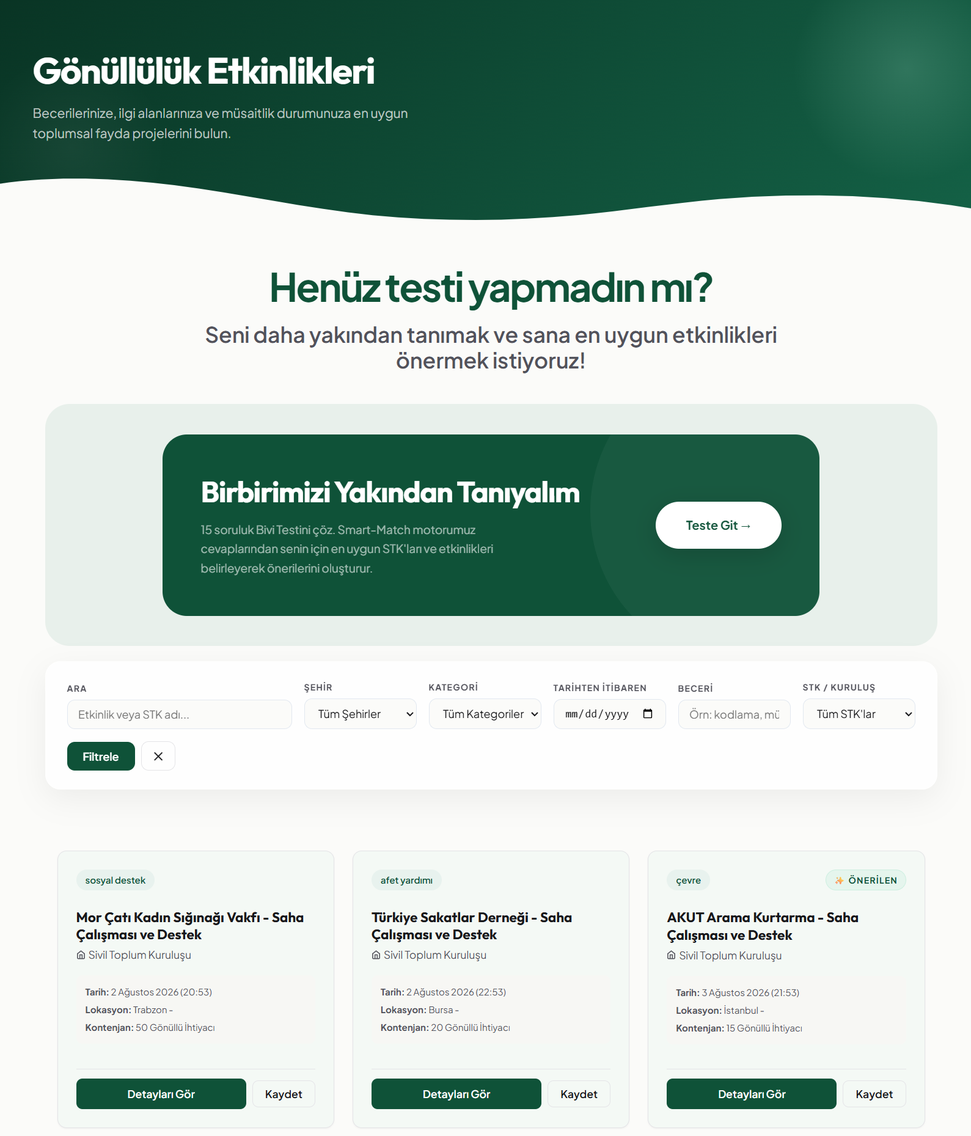
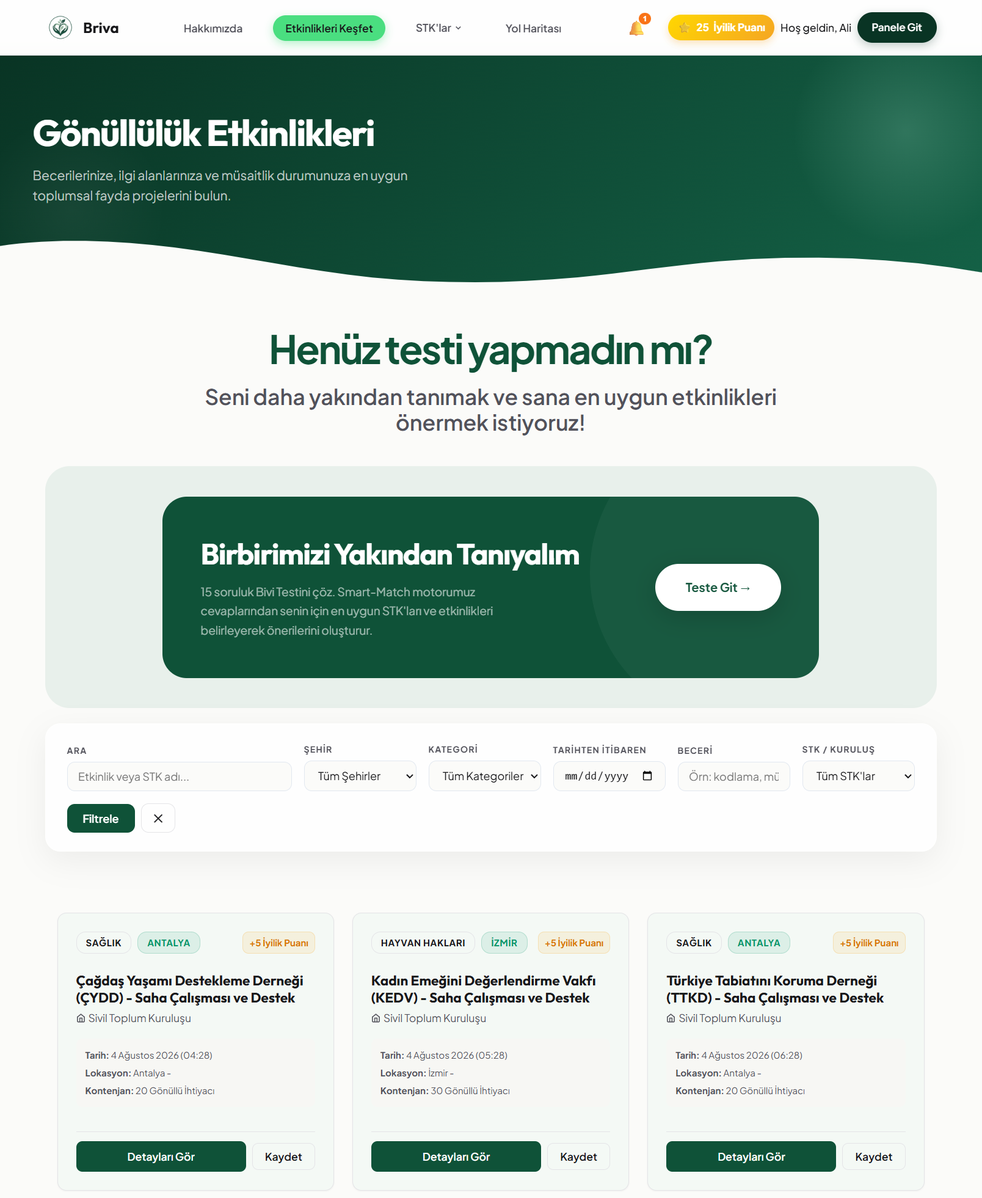
Sisteme yeni test verileri tanımlandı ve README dosyası proje ilerlemesine göre güncellendi

diff --git a/seed.py b/seed.py
@@ -66,26 +66,26 @@ def seed():
 
         print('[*] 20 STK profili olusturuluyor...')
         orgs_data = [
-            dict(name='Türk Eğitim Vakfı (TEV)', description="Eğitimde fırsat eşitliği için öğrencilere burs ve eğitim destekleri sunan Türkiye'nin köklü eğitim vakfı. TEV gönüllüsü olarak gençlerin aydınlık geleceğine katkı sağlayabilir, çeşitli projelerde mentor veya destekçi olarak yer alabilirsiniz.", website='https://www.tev.org.tr/', logo_url='https://www.google.com/s2/favicons?domain=tev.org.tr&sz=128', city='İstanbul', is_verified=True),
-            dict(name='Kanserli Çocuklara Umut Vakfı (KAÇUV)', description="Kanserli çocukların tedavilerinin sürekliliğini sağlamak ve ailelerine psikolojik, sosyal destek veren vakıf. Aile evlerinde, hastane oyun odalarında veya organizasyonlarda çocukların yüzünü güldüren etkinliklere katılabilirsiniz.", website='https://kacuv.org/', logo_url='https://www.google.com/s2/favicons?domain=kacuv.org&sz=128', city='İstanbul', is_verified=True),
-            dict(name='TEMA Vakfı', description="Türkiye'nin çöl olmasını engellemek, erozyonla mücadele ve doğa koruma çalışmaları yürüten vakıf. Toprak Dede'nin izinden giderek fidan dikimi etkinliklerine, çevre eğitimlerine ve doğa yürüyüşlerine katılabilirsiniz.", website='https://www.tema.org.tr/', logo_url='https://www.google.com/s2/favicons?domain=tema.org.tr&sz=128', city='İstanbul', is_verified=True),
-            dict(name='LÖSEV', description="Lösemili çocukların sağlık ve eğitim başta olmak üzere her türlü ihtiyaçlarının sağlanması için çalışan vakıf. LSV Dükkan, hastane etkinlikleri veya kampanya süreçlerinde aktif rol alarak lösemili çocuklara umut olabilirsiniz.", website='https://www.losev.org.tr/', logo_url='https://www.google.com/s2/favicons?domain=losev.org.tr&sz=128', city='Ankara', is_verified=True),
-            dict(name='Çağdaş Yaşamı Destekleme Derneği (ÇYDD)', description="Atatürk ilke ve devrimlerini korumak, geliştirmek, çağdaş eğitim yoluyla çağdaş insan ve çağdaş topluma ulaşmak amacını güden dernek. ÇYDD gönüllüsü olarak gençlerin eğitimine ve kişisel gelişimine katkı sağlayan projelerde yer alabilirsiniz.", website='https://www.cydd.org.tr/', logo_url='https://www.google.com/s2/favicons?domain=cydd.org.tr&sz=128', city='İstanbul', is_verified=True),
-            dict(name='Türk Kızılay', description="Afet müdahalesi, kan hizmetleri ve insani yardımlar konusunda ulusal ve uluslararası ölçekte çalışan kurum. Kızılay gönüllüleri, kan bağışı organizasyonlarından afet bölgelerindeki yardım dağıtımlarına kadar geniş bir yelpazede çalışır.", website='https://www.kizilay.org.tr/', logo_url='https://www.google.com/s2/favicons?domain=kizilay.org.tr&sz=128', city='Ankara', is_verified=True),
-            dict(name='AFAD', description="Afet ve acil durumlara müdahale eden resmi kurum. AFAD Gönüllüsü olarak afet öncesi eğitimlere katılabilir ve olası afetlerde arama-kurtarma, ilk yardım ve lojistik destek ekiplerinde görev alabilirsiniz.", website='https://www.afad.gov.tr/', logo_url='https://www.google.com/s2/favicons?domain=afad.gov.tr&sz=128', city='Ankara', is_verified=True),
-            dict(name='AKUT Arama Kurtarma', description="Doğal afetlerde, kazalarda arama kurtarma çalışmaları yapan, alanında öncü gönüllü kuruluş. AKUT gönüllüsü olarak arama kurtarma operasyonlarında, lojistik destekte veya farkındalık eğitimlerinde görev alabilirsiniz.", website='https://www.akut.org.tr/', logo_url='https://www.google.com/s2/favicons?domain=akut.org.tr&sz=128', city='İstanbul', is_verified=True),
-            dict(name='Darüşşafaka Cemiyeti', description="Babası veya annesi hayatta olmayan, maddi olanakları yetersiz yetenekli çocuklara nitelikli eğitim veren cemiyet. Darüşşafaka'nın eğitim misyonuna destek olmak için organizasyonlarda ve bağış kampanyalarında gönüllü olabilirsiniz.", website='https://www.darussafaka.org/', logo_url='https://www.google.com/s2/favicons?domain=darussafaka.org&sz=128', city='İstanbul', is_verified=True),
-            dict(name='Toplum Gönüllüleri Vakfı (TOG)', description="Gençlerin öncülüğünde sivil toplum projeleri yaratarak gençlerin kişisel gelişimlerini destekleyen vakıf. Üniversite kulüplerinde örgütlenerek yerel sorunlara çözüm üreten projeler tasarlayabilir ve uygulayabilirsiniz.", website='https://www.tog.org.tr/', logo_url='https://www.google.com/s2/favicons?domain=tog.org.tr&sz=128', city='İstanbul', is_verified=True),
-            dict(name='Kadın Emeğini Değerlendirme Vakfı (KEDV)', description="Dar gelirli kadınların ekonomik ve sosyal olarak güçlenmelerini, yerel kalkınmaya liderlik etmelerini destekleyen vakıf. Kadın kooperatifleri ve erken çocukluk eğitimi projelerinde uzmanlığınızla katkı sunabilirsiniz.", website='https://www.kedv.org.tr/', logo_url='https://www.google.com/s2/favicons?domain=kedv.org.tr&sz=128', city='İstanbul', is_verified=True),
-            dict(name='Türkiye Korunmaya Muhtaç Çocuklar Vakfı (KORUNCUK)', description="Çocukların sevgi ve şefkatle büyüdüğü, eğitimlerinden mahrum kalmadığı bir yaşam kurmak için çalışan vakıf. Koruncukköy'lerde veya idari ofislerde, çocukların sosyal ve kültürel gelişimlerine destek olabilirsiniz.", website='https://koruncuk.org/', logo_url='https://www.google.com/s2/favicons?domain=koruncuk.org&sz=128', city='İstanbul', is_verified=True),
-            dict(name='AÇEV', description="Erken çocukluk, anne-baba ve kadın destek eğitimleriyle toplumsal gelişime katkı sağlayan vakıf. Saha araştırmalarında, ofis çalışmalarında veya eğitim materyallerinin hazırlanmasında AÇEV ekibine gönüllü destek verebilirsiniz.", website='https://www.acev.org/', logo_url='https://www.google.com/s2/favicons?domain=acev.org&sz=128', city='İstanbul', is_verified=True),
-            dict(name='Türkiye Sakatlar Derneği', description="Engelli bireylerin haklarını savunan, onların sosyal ve ekonomik hayata entegrasyonu için çalışan dernek. Erişilebilirlik projeleri, tekerlekli sandalye dağıtımı ve sosyal etkinliklerde derneğin çalışmalarına destek olabilirsiniz.", website='https://www.tsd.org.tr/', logo_url='https://www.google.com/s2/favicons?domain=tsd.org.tr&sz=128', city='İstanbul', is_verified=True),
-            dict(name='Yeşilay', description="Toplumu başta sigara, alkol, uyuşturucu olmak üzere her türlü bağımlılıktan korumak için çalışan kurum. Sağlıklı yaşam bilincini artırmaya yönelik seminerler, gençlik kampları ve spor etkinliklerinde gönüllü elçi olabilirsiniz.", website='https://www.yesilay.org.tr/', logo_url='https://www.google.com/s2/favicons?domain=yesilay.org.tr&sz=128', city='İstanbul', is_verified=True),
-            dict(name='Türk Kanser Derneği', description="Kanser hastalıklarıyla ilgili farkındalık yaratma, erken teşhis ve tedavi süreçlerinde hastalara destek olan dernek. Bilinçlendirme kampanyalarında, hasta ziyaretlerinde veya organizasyonel süreçlerde yer alabilirsiniz.", website='https://www.turkkanserdernegi.org/', logo_url='https://www.google.com/s2/favicons?domain=turkkanserdernegi.org&sz=128', city='İstanbul', is_verified=True),
-            dict(name='Mor Çatı Kadın Sığınağı Vakfı', description="Erkek şiddetine maruz kalan kadınlara psikolojik, hukuki destek veren ve sığınak çalışması yürüten vakıf. Dayanışma merkezlerinde, organizasyonlarda veya uzmanlık alanınıza (hukuk, psikoloji) göre gönüllü destek sağlayabilirsiniz.", website='https://morcati.org.tr/', logo_url='https://www.google.com/s2/favicons?domain=morcati.org.tr&sz=128', city='İstanbul', is_verified=True),
-            dict(name='DenizTemiz Derneği (TURMEPA)', description="Türkiye'nin denizlerinin ve su yollarının temizliğini sağlamak, korumak ve gelecek nesillere aktarmak için çalışan dernek. Kıyı temizlik etkinliklerine, sualtı atık çıkarma organizasyonlarına ve eğitim projelerine katılabilirsiniz.", website='https://www.turmepa.org.tr/', logo_url='https://www.google.com/s2/favicons?domain=turmepa.org.tr&sz=128', city='İstanbul', is_verified=True),
-            dict(name='Türkiye Tabiatını Koruma Derneği (TTKD)', description="Türkiye'nin doğal zenginliklerini, flora ve faunasını korumak için bilimsel ve eğitimsel çalışmalar yapan dernek. Doğa kamplarında, ekolojik araştırmalarda ve çevre bilinci yaratma projelerinde aktif rol alabilirsiniz.", website='https://www.ttkd.org.tr/', logo_url='https://www.google.com/s2/favicons?domain=ttkd.org.tr&sz=128', city='Ankara', is_verified=True),
-            dict(name='Hayvan Hakları Federasyonu (HAYTAP)', description="Hayvan haklarının yasalarla güvence altına alınması ve toplumda farkındalık yaratılması için çalışan federasyon. Barınak iyileştirme, mama dağıtımı ve hukuki hak arama süreçlerinde HAYTAP'a destek olabilirsiniz.", website='https://www.haytap.org/', logo_url='https://www.google.com/s2/favicons?domain=haytap.org&sz=128', city='İstanbul', is_verified=True),
+            dict(name='Türk Eğitim Vakfı (TEV)', description="Eğitimde fırsat eşitliği için öğrencilere burs ve eğitim destekleri sunan Türkiye'nin köklü eğitim vakfı. TEV gönüllüsü olarak gençlerin aydınlık geleceğine katkı sağlayabilir, çeşitli projelerde mentor veya destekçi olarak yer alabilirsiniz.", website='https://www.tev.org.tr/', logo_url='https://t2.gstatic.com/faviconV2?client=SOCIAL&type=FAVICON&fallback_opts=TYPE,SIZE,URL&url=http://tev.org.tr&size=128', city='İstanbul', is_verified=True),
+            dict(name='Kanserli Çocuklara Umut Vakfı (KAÇUV)', description="Kanserli çocukların tedavilerinin sürekliliğini sağlamak ve ailelerine psikolojik, sosyal destek veren vakıf. Aile evlerinde, hastane oyun odalarında veya organizasyonlarda çocukların yüzünü güldüren etkinliklere katılabilirsiniz.", website='https://kacuv.org/', logo_url='https://t2.gstatic.com/faviconV2?client=SOCIAL&type=FAVICON&fallback_opts=TYPE,SIZE,URL&url=http://kacuv.org&size=128', city='İstanbul', is_verified=True),
+            dict(name='TEMA Vakfı', description="Türkiye'nin çöl olmasını engellemek, erozyonla mücadele ve doğa koruma çalışmaları yürüten vakıf. Toprak Dede'nin izinden giderek fidan dikimi etkinliklerine, çevre eğitimlerine ve doğa yürüyüşlerine katılabilirsiniz.", website='https://www.tema.org.tr/', logo_url='https://t2.gstatic.com/faviconV2?client=SOCIAL&type=FAVICON&fallback_opts=TYPE,SIZE,URL&url=http://tema.org.tr&size=128', city='İstanbul', is_verified=True),
+            dict(name='LÖSEV', description="Lösemili çocukların sağlık ve eğitim başta olmak üzere her türlü ihtiyaçlarının sağlanması için çalışan vakıf. LSV Dükkan, hastane etkinlikleri veya kampanya süreçlerinde aktif rol alarak lösemili çocuklara umut olabilirsiniz.", website='https://www.losev.org.tr/', logo_url='https://t2.gstatic.com/faviconV2?client=SOCIAL&type=FAVICON&fallback_opts=TYPE,SIZE,URL&url=http://losev.org.tr&size=128', city='Ankara', is_verified=True),
+            dict(name='Çağdaş Yaşamı Destekleme Derneği (ÇYDD)', description="Atatürk ilke ve devrimlerini korumak, geliştirmek, çağdaş eğitim yoluyla çağdaş insan ve çağdaş topluma ulaşmak amacını güden dernek. ÇYDD gönüllüsü olarak gençlerin eğitimine ve kişisel gelişimine katkı sağlayan projelerde yer alabilirsiniz.", website='https://www.cydd.org.tr/', logo_url='https://t2.gstatic.com/faviconV2?client=SOCIAL&type=FAVICON&fallback_opts=TYPE,SIZE,URL&url=http://cydd.org.tr&size=128', city='İstanbul', is_verified=True),
+            dict(name='Türk Kızılay', description="Afet müdahalesi, kan hizmetleri ve insani yardımlar konusunda ulusal ve uluslararası ölçekte çalışan kurum. Kızılay gönüllüleri, kan bağışı organizasyonlarından afet bölgelerindeki yardım dağıtımlarına kadar geniş bir yelpazede çalışır.", website='https://www.kizilay.org.tr/', logo_url='https://t2.gstatic.com/faviconV2?client=SOCIAL&type=FAVICON&fallback_opts=TYPE,SIZE,URL&url=http://kizilay.org.tr&size=128', city='Ankara', is_verified=True),
+            dict(name='AFAD', description="Afet ve acil durumlara müdahale eden resmi kurum. AFAD Gönüllüsü olarak afet öncesi eğitimlere katılabilir ve olası afetlerde arama-kurtarma, ilk yardım ve lojistik destek ekiplerinde görev alabilirsiniz.", website='https://www.afad.gov.tr/', logo_url='https://t2.gstatic.com/faviconV2?client=SOCIAL&type=FAVICON&fallback_opts=TYPE,SIZE,URL&url=http://afad.gov.tr&size=128', city='Ankara', is_verified=True),
+            dict(name='AKUT Arama Kurtarma', description="Doğal afetlerde, kazalarda arama kurtarma çalışmaları yapan, alanında öncü gönüllü kuruluş. AKUT gönüllüsü olarak arama kurtarma operasyonlarında, lojistik destekte veya farkındalık eğitimlerinde görev alabilirsiniz.", website='https://www.akut.org.tr/', logo_url='https://t2.gstatic.com/faviconV2?client=SOCIAL&type=FAVICON&fallback_opts=TYPE,SIZE,URL&url=http://akut.org.tr&size=128', city='İstanbul', is_verified=True),
+            dict(name='Darüşşafaka Cemiyeti', description="Babası veya annesi hayatta olmayan, maddi olanakları yetersiz yetenekli çocuklara nitelikli eğitim veren cemiyet. Darüşşafaka'nın eğitim misyonuna destek olmak için organizasyonlarda ve bağış kampanyalarında gönüllü olabilirsiniz.", website='https://www.darussafaka.org/', logo_url='https://t2.gstatic.com/faviconV2?client=SOCIAL&type=FAVICON&fallback_opts=TYPE,SIZE,URL&url=http://darussafaka.org&size=128', city='İstanbul', is_verified=True),
+            dict(name='Toplum Gönüllüleri Vakfı (TOG)', description="Gençlerin öncülüğünde sivil toplum projeleri yaratarak gençlerin kişisel gelişimlerini destekleyen vakıf. Üniversite kulüplerinde örgütlenerek yerel sorunlara çözüm üreten projeler tasarlayabilir ve uygulayabilirsiniz.", website='https://www.tog.org.tr/', logo_url='https://t2.gstatic.com/faviconV2?client=SOCIAL&type=FAVICON&fallback_opts=TYPE,SIZE,URL&url=http://tog.org.tr&size=128', city='İstanbul', is_verified=True),
+            dict(name='Kadın Emeğini Değerlendirme Vakfı (KEDV)', description="Dar gelirli kadınların ekonomik ve sosyal olarak güçlenmelerini, yerel kalkınmaya liderlik etmelerini destekleyen vakıf. Kadın kooperatifleri ve erken çocukluk eğitimi projelerinde uzmanlığınızla katkı sunabilirsiniz.", website='https://www.kedv.org.tr/', logo_url='https://t2.gstatic.com/faviconV2?client=SOCIAL&type=FAVICON&fallback_opts=TYPE,SIZE,URL&url=http://kedv.org.tr&size=128', city='İstanbul', is_verified=True),
+            dict(name='Türkiye Korunmaya Muhtaç Çocuklar Vakfı (KORUNCUK)', description="Çocukların sevgi ve şefkatle büyüdüğü, eğitimlerinden mahrum kalmadığı bir yaşam kurmak için çalışan vakıf. Koruncukköy'lerde veya idari ofislerde, çocukların sosyal ve kültürel gelişimlerine destek olabilirsiniz.", website='https://koruncuk.org/', logo_url='https://t2.gstatic.com/faviconV2?client=SOCIAL&type=FAVICON&fallback_opts=TYPE,SIZE,URL&url=http://koruncuk.org&size=128', city='İstanbul', is_verified=True),
+            dict(name='AÇEV', description="Erken çocukluk, anne-baba ve kadın destek eğitimleriyle toplumsal gelişime katkı sağlayan vakıf. Saha araştırmalarında, ofis çalışmalarında veya eğitim materyallerinin hazırlanmasında AÇEV ekibine gönüllü destek verebilirsiniz.", website='https://www.acev.org/', logo_url='https://t2.gstatic.com/faviconV2?client=SOCIAL&type=FAVICON&fallback_opts=TYPE,SIZE,URL&url=http://acev.org&size=128', city='İstanbul', is_verified=True),
+            dict(name='Türkiye Sakatlar Derneği', description="Engelli bireylerin haklarını savunan, onların sosyal ve ekonomik hayata entegrasyonu için çalışan dernek. Erişilebilirlik projeleri, tekerlekli sandalye dağıtımı ve sosyal etkinliklerde derneğin çalışmalarına destek olabilirsiniz.", website='https://www.tsd.org.tr/', logo_url='https://t2.gstatic.com/faviconV2?client=SOCIAL&type=FAVICON&fallback_opts=TYPE,SIZE,URL&url=http://tsd.org.tr&size=128', city='İstanbul', is_verified=True),
+            dict(name='Yeşilay', description="Toplumu başta sigara, alkol, uyuşturucu olmak üzere her türlü bağımlılıktan korumak için çalışan kurum. Sağlıklı yaşam bilincini artırmaya yönelik seminerler, gençlik kampları ve spor etkinliklerinde gönüllü elçi olabilirsiniz.", website='https://www.yesilay.org.tr/', logo_url='https://t2.gstatic.com/faviconV2?client=SOCIAL&type=FAVICON&fallback_opts=TYPE,SIZE,URL&url=http://yesilay.org.tr&size=128', city='İstanbul', is_verified=True),
+            dict(name='Türk Kanser Derneği', description="Kanser hastalıklarıyla ilgili farkındalık yaratma, erken teşhis ve tedavi süreçlerinde hastalara destek olan dernek. Bilinçlendirme kampanyalarında, hasta ziyaretlerinde veya organizasyonel süreçlerde yer alabilirsiniz.", website='https://www.turkkanserdernegi.org/', logo_url='https://t2.gstatic.com/faviconV2?client=SOCIAL&type=FAVICON&fallback_opts=TYPE,SIZE,URL&url=http://turkkanserdernegi.org&size=128', city='İstanbul', is_verified=True),
+            dict(name='Mor Çatı Kadın Sığınağı Vakfı', description="Erkek şiddetine maruz kalan kadınlara psikolojik, hukuki destek veren ve sığınak çalışması yürüten vakıf. Dayanışma merkezlerinde, organizasyonlarda veya uzmanlık alanınıza (hukuk, psikoloji) göre gönüllü destek sağlayabilirsiniz.", website='https://morcati.org.tr/', logo_url='https://t2.gstatic.com/faviconV2?client=SOCIAL&type=FAVICON&fallback_opts=TYPE,SIZE,URL&url=http://morcati.org.tr&size=128', city='İstanbul', is_verified=True),
+            dict(name='DenizTemiz Derneği (TURMEPA)', description="Türkiye'nin denizlerinin ve su yollarının temizliğini sağlamak, korumak ve gelecek nesillere aktarmak için çalışan dernek. Kıyı temizlik etkinliklerine, sualtı atık çıkarma organizasyonlarına ve eğitim projelerine katılabilirsiniz.", website='https://www.turmepa.org.tr/', logo_url='https://t2.gstatic.com/faviconV2?client=SOCIAL&type=FAVICON&fallback_opts=TYPE,SIZE,URL&url=http://turmepa.org.tr&size=128', city='İstanbul', is_verified=True),
+            dict(name='Türkiye Tabiatını Koruma Derneği (TTKD)', description="Türkiye'nin doğal zenginliklerini, flora ve faunasını korumak için bilimsel ve eğitimsel çalışmalar yapan dernek. Doğa kamplarında, ekolojik araştırmalarda ve çevre bilinci yaratma projelerinde aktif rol alabilirsiniz.", website='https://www.ttkd.org.tr/', logo_url='https://t2.gstatic.com/faviconV2?client=SOCIAL&type=FAVICON&fallback_opts=TYPE,SIZE,URL&url=http://ttkd.org.tr&size=128', city='Ankara', is_verified=True),
+            dict(name='Hayvan Hakları Federasyonu (HAYTAP)', description="Hayvan haklarının yasalarla güvence altına alınması ve toplumda farkındalık yaratılması için çalışan federasyon. Barınak iyileştirme, mama dağıtımı ve hukuki hak arama süreçlerinde HAYTAP'a destek olabilirsiniz.", website='https://www.haytap.org/', logo_url='https://t2.gstatic.com/faviconV2?client=SOCIAL&type=FAVICON&fallback_opts=TYPE,SIZE,URL&url=http://haytap.org&size=128', city='İstanbul', is_verified=True),
         ]
 
         orgs = []
@@ -141,6 +141,19 @@ def seed():
                 status='published'
             ))
 
+        events_data.append(dict(
+            organization_id=orgs[0].id,
+            title='Geçmiş Çevre Temizliği Etkinliği',
+            description='Geçmişte yapılmış ve tamamlanmış örnek bir etkinlik. Ali Yılmaz bu etkinliğe katılıp iyilik puanı kazandı.',
+            category='çevre',
+            city='İstanbul',
+            address='Kadıköy Sahil',
+            start_date=now - timedelta(days=10, hours=4),
+            end_date=now - timedelta(days=10, hours=0),
+            max_volunteers=20,
+            status='completed'
+        ))
+
         events = []
         for ed in events_data:
             e = Event(**ed)
@@ -162,7 +175,14 @@ def seed():
             cover_letter='Hayvanları çok seviyorum.', reviewer_note='Bekliyoruz!')
         app6 = EventApplication(user_id=volunteer1.id, event_id=events[9].id, status='pending',
             cover_letter='Python geliştiricisiyim.')
+        from app.services.gamification import award_xp
         db.session.add_all([app1, app2, app3, app4, app5, app6])
+        
+        app_past = EventApplication(user_id=volunteer1.id, event_id=events[-1].id, status='approved', cover_letter='Eski bir etkinlik başvurusu.', reviewer_note='Katılım sağladı.')
+        db.session.add(app_past)
+        db.session.commit()
+        
+        award_xp(app_past.user_id, 'EVENT_COMPLETED', 'event', app_past.event_id)
         db.session.commit()
 
         print('\n[OK] Seed tamamlandi!\n')

diff --git a/README.md b/README.md
@@ -205,41 +205,6 @@ Bu senaryolarda:
 ## Miro Link:
 https://miro.com/app/board/uXjVH6Zd5xA=/?share_link_id=171753192793
 
-## 🖼 UI (Arayüz) Ekran Görüntüleri ve Detayları
-
-### 1. Ana Sayfa (Landing Page)
-![Ana Sayfa](ProjectManagement/website/fullpage.png)
-**Açıklama:** Platformun ana giriş noktası (Landing Page) olan arayüzüdür. Temel işlevi, gönüllüler ile sivil toplum kuruluşları arasındaki dağınık başvuru süreçlerini tek bir merkeze toplayarak kullanıcılara yapay zeka destekli akıllı eşleştirme (AI Matchmaking) olanaklarını tanıtmaktır. Bu ekran üzerinden platformun temel modüllerine ve gönüllülük fırsatlarına doğrudan yönlendirme sağlanır.
-
-**Teknik Tasarım Tercihimiz:** Arayüz katmanında bilgi hiyerarşisini belirginleştirmek amacıyla **Glassmorphism** prensipleri uygulanmıştır. Komponentlerde `backdrop-filter: blur()` CSS özelliği ve RGBa renk paletleri kullanılarak z-index katmanları arasında görsel derinlik (depth) oluşturulmuştur. CSS fade-in animasyonlarıyla dom yüklenme geçişleri optimize edilmiş ve kullanıcı deneyimi (UX) kesintisiz hale getirilmiştir.
-
-### 2. Giriş Ekranı (Login) ve Güvenlik Sınırlandırmaları
-![Giriş Ekranı](ProjectManagement/website/login_page.png)
-**Açıklama:** Kullanıcıların ve kurumların sisteme dahil olduğu giriş sayfasıdır. Bu sayfada güvenlik amacıyla **dakikada en fazla 5 giriş denemesi** yapılabilmesini sağlayan bir *Rate Limiting* (Hız Sınırlandırma) mekanizması aktiftir.
-**Teknik Sebebi:** Kötü niyetli kişi veya botların Brute-Force (Kaba Kuvvet) veya Credential Stuffing (Çalıntı Şifre) yöntemleriyle hesapları ele geçirmesini ve peş peşe yapılan isteklerle (DDoS) sunucu kaynaklarını tüketmesini engellemektir.
-
-### 3. Sivil Toplum Kuruluşu (STK) Paneli
-![STK Paneli](ProjectManagement/website/organization_panel_dashboard.png)
-*(Not: Bu ekranda görünen kurum isimleri ve veriler tamamen sistemin test edilebilmesi için üretilmiş örnek verilerdir, gerçek hesapları yansıtmamaktadır.)*
-**Açıklama:** Platformu kullanan kurumların, projelerini ve gönüllü akışını yönettikleri özet ekrandır (Dashboard). Ayrıca STK'lar yeni etkinlik (ilan) oluştururken, ilan metinlerinin daha profesyonel ve dikkat çekici hale getirilmesi için yapay zeka (AI) destekli metin düzenleme asistanından yararlanılmaktadır.
-* **Toplam Etkinlik:** STK'nın bugüne kadar açtığı tüm etkinliklerin sayısı.
-* **Yayında (Aktif):** Başvuru tarihi henüz geçmemiş, gönüllü aranan etkinliklerin sayısı.
-* **Onay Bekleyen:** Gönüllülerin başvurduğu ancak STK tarafından henüz incelenip 'Kabul' veya 'Red' kararı verilmemiş başvurular.
-* **Kabul Edilen:** Tüm zamanlarda etkinliklere katılımı yetkililerce onaylanan toplam gönüllü sayısı.
-
-### 4. Bivi Testi (Kişilik Envanteri)
-![Bivi Testi](ProjectManagement/website/bivi_test.png)
-**Açıklama:** Gönüllülerin ilgi alanlarını ve süper güçlerini (yeteneklerini) keşfetmelerini sağlayan etkileşimli mini test ekranıdır.
-**Yapay Zeka (AI) Entegrasyonu:** Test sonuçları arka planda çalışan yapay zeka algoritması tarafından analiz edilerek kullanıcının vektörel profiline (User Context) işlenir. AI motoru, bu anlamsal verileri kullanarak "hangi gönüllünün hangi sosyal etki projesinde daha yüksek katma değer sağlayacağını" hesaplar.
-
-### 5. Gönüllü Paneli (User Dashboard)
-![Gönüllü Paneli](ProjectManagement/website/user_dashboard.png)
-**Açıklama:** Gönüllülerin kişisel iyilik puanlarını (XP), başvuru geçmişlerini ve statülerini yönettikleri ana kontrol panelidir.
-**AI Öneri Sistemi:** Paneldeki "Sana Uygun Fırsatlar" bölümü dinamik çalışır. Kullanıcının Bivi Testi'nden elde edilen anlamsal (semantic) verileri ve geçmişte katıldığı etkinliklerin nitelikleri yapay zeka motoru (Smart-Match) tarafından harmanlanarak anlık ve kişiye özel proje önerileri (Recommendations) üretilir.
-
-### 6. Etkinlik Keşif Ekranı (Events)
-![Etkinlikler](ProjectManagement/website/events.png)
-**Açıklama:** Gönüllülerin, sivil toplum kuruluşları tarafından açılan tüm aktif sosyal etki projelerini listeleyebildikleri, şehir, kategori ve müsaitlik durumu bazında detaylı filtreleme yapabildikleri ana arama sayfasıdır.
 
 # Sprint 1 — Core Platform 
 
@@ -374,6 +339,13 @@ Sistemin verimliliğini ölçmek adına 1000 etkinliklik sentetik bir test seti 
 
 ## 1. Sprint 3 Kanban ve Süreç Yönetimi
 ![Sprint 3 Kanban](ProjectManagement/Sprint3Documents/briva%20sprint-3%20kanban.png)
+
+**Sprint Notları:** Backlog'umuz Sprint 3 hedefleri doğrultusunda düzenlenmiştir. Sprint başına tahmin edilen puan sayısını geçmeyecek şekilde sıradan seçimler yapılmıştır. Story başına çıkan tahmin puanı, toplam puanın yarısından az tutulmuştur.
+
+**Puan tamamlama mantığı:** 
+- **Sprint 3 içinde tamamlanması tahmin edilen puan:** 100
+- **Tamamlanan puan:** 100
+
 *Sprint 3 boyunca yürütülen backend ve frontend görevlerinin anlık kanban takip tablosu. Sprint sürecinde; dinamik veri üretimi (seeding) hattının dekuple edilmesi, 3. parti yüksek çözünürlüklü logo (Clearbit API) entegrasyonları, STK paneli state senkronizasyon hatalarının giderilmesi ve UI tasarımlarının kusursuzlaştırılması ("Glassmorphism", CSS Grid vb.) başarıyla tamamlanıp "Done" aşamasına çekilmiştir.*
 
 ## 2. Sprint 3'te Teslim Edilenler
@@ -427,6 +399,46 @@ Sistemin bağımsız çekirdek (core) test sonuçları ve kod kalite metrikleri.
 |:---:|:---:|:---:|
 | ![Sprint 3 Test Durumu](ProjectManagement/Sprint3Documents/sprint3_test_durumu_grafigi.png) | ![Sprint 3 Kalite Kapıları](ProjectManagement/Sprint3Documents/sprint3_kalite_kapilari_grafigi.png) | ![Test Kapsamı](ProjectManagement/Sprint3Documents/sprint3_test_kapsami_grafigi.png) |
 | *Briva Core (PyTest) genel sonuçları. Toplam 69 test koşturuldu. Yalnızca 3 edge-case senaryosu tespit edilerek teknik borca devredildi, kalan 66 senaryo sorunsuz çalışmaktadır.* | *Güvenlik (%100), AI dayanıklılığı (%100) ve API JSON kontrat (%95) gibi kritik eşiklerin başarı oranlarını detaylandıran Sistem Kalite Kapıları (Quality Gates) matriksi.* | *Core mimari bileşenlerin birim testlerle (unit tests) sınanma oranları. API/Routes (%98) ve JWT Güvenlik (%100) en yüksek kod kapsama (code coverage) değerlerine ulaştı.* |
+
+---
+
+## 6. Sprint-3 Sonu Ürün Durumu (UI Ekran Görüntüleri ve Detayları)
+
+### 1. Ana Sayfa (Landing Page)
+![Ana Sayfa](ProjectManagement/website/fullpage.png)
+**Açıklama:** Platformun ana giriş noktası (Landing Page) olan arayüzüdür. Temel işlevi, gönüllüler ile sivil toplum kuruluşları arasındaki dağınık başvuru süreçlerini tek bir merkeze toplayarak kullanıcılara yapay zeka destekli akıllı eşleştirme (AI Matchmaking) olanaklarını tanıtmaktır. Bu ekran üzerinden platformun temel modüllerine ve gönüllülük fırsatlarına doğrudan yönlendirme sağlanır.
+
+**Teknik Tasarım Tercihimiz:** Arayüz katmanında bilgi hiyerarşisini belirginleştirmek amacıyla **Glassmorphism** prensipleri uygulanmıştır. Komponentlerde `backdrop-filter: blur()` CSS özelliği ve RGBa renk paletleri kullanılarak z-index katmanları arasında görsel derinlik (depth) oluşturulmuştur. CSS fade-in animasyonlarıyla dom yüklenme geçişleri optimize edilmiş ve kullanıcı deneyimi (UX) kesintisiz hale getirilmiştir.
+
+### 2. Giriş Ekranı (Login) ve Güvenlik Sınırlandırmaları
+![Giriş Ekranı](ProjectManagement/website/login_page.png)
+**Açıklama:** Kullanıcıların ve kurumların sisteme dahil olduğu giriş sayfasıdır. Bu sayfada güvenlik amacıyla **dakikada en fazla 5 giriş denemesi** yapılabilmesini sağlayan bir *Rate Limiting* (Hız Sınırlandırma) mekanizması aktiftir.
+**Teknik Sebebi:** Kötü niyetli kişi veya botların Brute-Force (Kaba Kuvvet) veya Credential Stuffing (Çalıntı Şifre) yöntemleriyle hesapları ele geçirmesini ve peş peşe yapılan isteklerle (DDoS) sunucu kaynaklarını tüketmesini engellemektir.
+
+### 3. Sivil Toplum Kuruluşu (STK) Paneli
+![STK Paneli](ProjectManagement/website/organization_panel_dashboard.png)
+*(Not: Bu ekranda görünen kurum isimleri ve veriler tamamen sistemin test edilebilmesi için üretilmiş örnek verilerdir, gerçek hesapları yansıtmamaktadır.)*
+**Açıklama:** Platformu kullanan kurumların, projelerini ve gönüllü akışını yönettikleri özet ekrandır (Dashboard). Ayrıca STK'lar yeni etkinlik (ilan) oluştururken, ilan metinlerinin daha profesyonel ve dikkat çekici hale getirilmesi için yapay zeka (AI) destekli metin düzenleme asistanından yararlanılmaktadır.
+* **Toplam Etkinlik:** STK'nın bugüne kadar açtığı tüm etkinliklerin sayısı.
+* **Yayında (Aktif):** Başvuru tarihi henüz geçmemiş, gönüllü aranan etkinliklerin sayısı.
+* **Onay Bekleyen:** Gönüllülerin başvurduğu ancak STK tarafından henüz incelenip 'Kabul' veya 'Red' kararı verilmemiş başvurular.
+* **Kabul Edilen:** Tüm zamanlarda etkinliklere katılımı yetkililerce onaylanan toplam gönüllü sayısı.
+
+### 4. Bivi Testi (Kişilik Envanteri)
+![Bivi Testi](ProjectManagement/website/bivi_test.png)
+**Açıklama:** Gönüllülerin ilgi alanlarını ve süper güçlerini (yeteneklerini) keşfetmelerini sağlayan etkileşimli mini test ekranıdır.
+**Yapay Zeka (AI) Entegrasyonu:** Test sonuçları arka planda çalışan yapay zeka algoritması tarafından analiz edilerek kullanıcının vektörel profiline (User Context) işlenir. AI motoru, bu anlamsal verileri kullanarak "hangi gönüllünün hangi sosyal etki projesinde daha yüksek katma değer sağlayacağını" hesaplar.
+
+### 5. Gönüllü Paneli (User Dashboard)
+![Gönüllü Paneli](ProjectManagement/website/user_dashboard.png)
+**Açıklama:** Gönüllülerin kişisel iyilik puanlarını (XP), başvuru geçmişlerini ve statülerini yönettikleri ana kontrol panelidir.
+**Öne Çıkan Özellikler:**
+* **Dinamik Başarı Rozetleri (Gamification):** Kullanıcının kazandığı puanlara göre (25, 50, 75, 100...) panelinde özel 3D tasarım başarı rozetleri ve motive edici mesajlar dinamik olarak sergilenir.
+* **AI Öneri Sistemi:** Paneldeki "Sana Uygun Fırsatlar" bölümü dinamik çalışır. Kullanıcının Bivi Testi'nden elde edilen anlamsal (semantic) verileri ve geçmişte katıldığı etkinliklerin nitelikleri yapay zeka motoru (Smart-Match) tarafından harmanlanarak anlık ve kişiye özel proje önerileri üretilir.
+
+### 6. Etkinlik Keşif Ekranı (Events)
+![Etkinlikler](ProjectManagement/website/events.png)
+**Açıklama:** Gönüllülerin, sivil toplum kuruluşları tarafından açılan tüm aktif sosyal etki projelerini listeleyebildikleri, şehir, kategori ve müsaitlik durumu bazında detaylı filtreleme yapabildikleri ana arama sayfasıdır. Etkinlik kartlarının üzerinde yer alan **"+5 İyilik Puanı"** gibi etiketler, kullanıcıları katılmaya teşvik edecek oyunlaştırma (gamification) unsurlarını barındırır.
 
 ---
 
